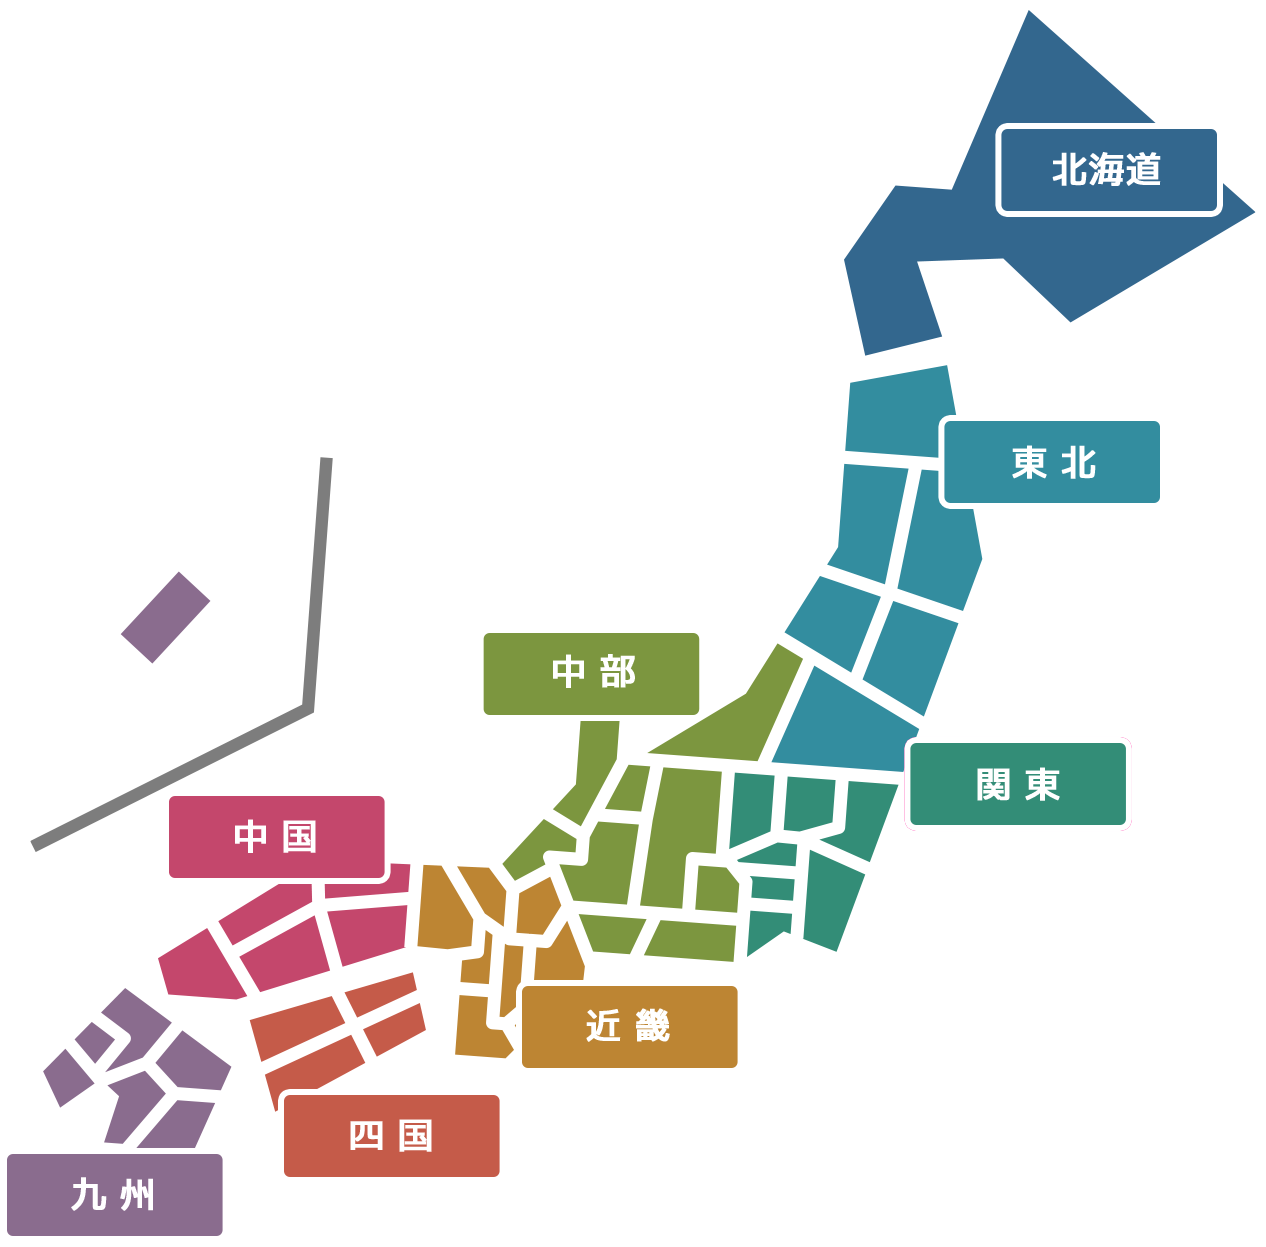
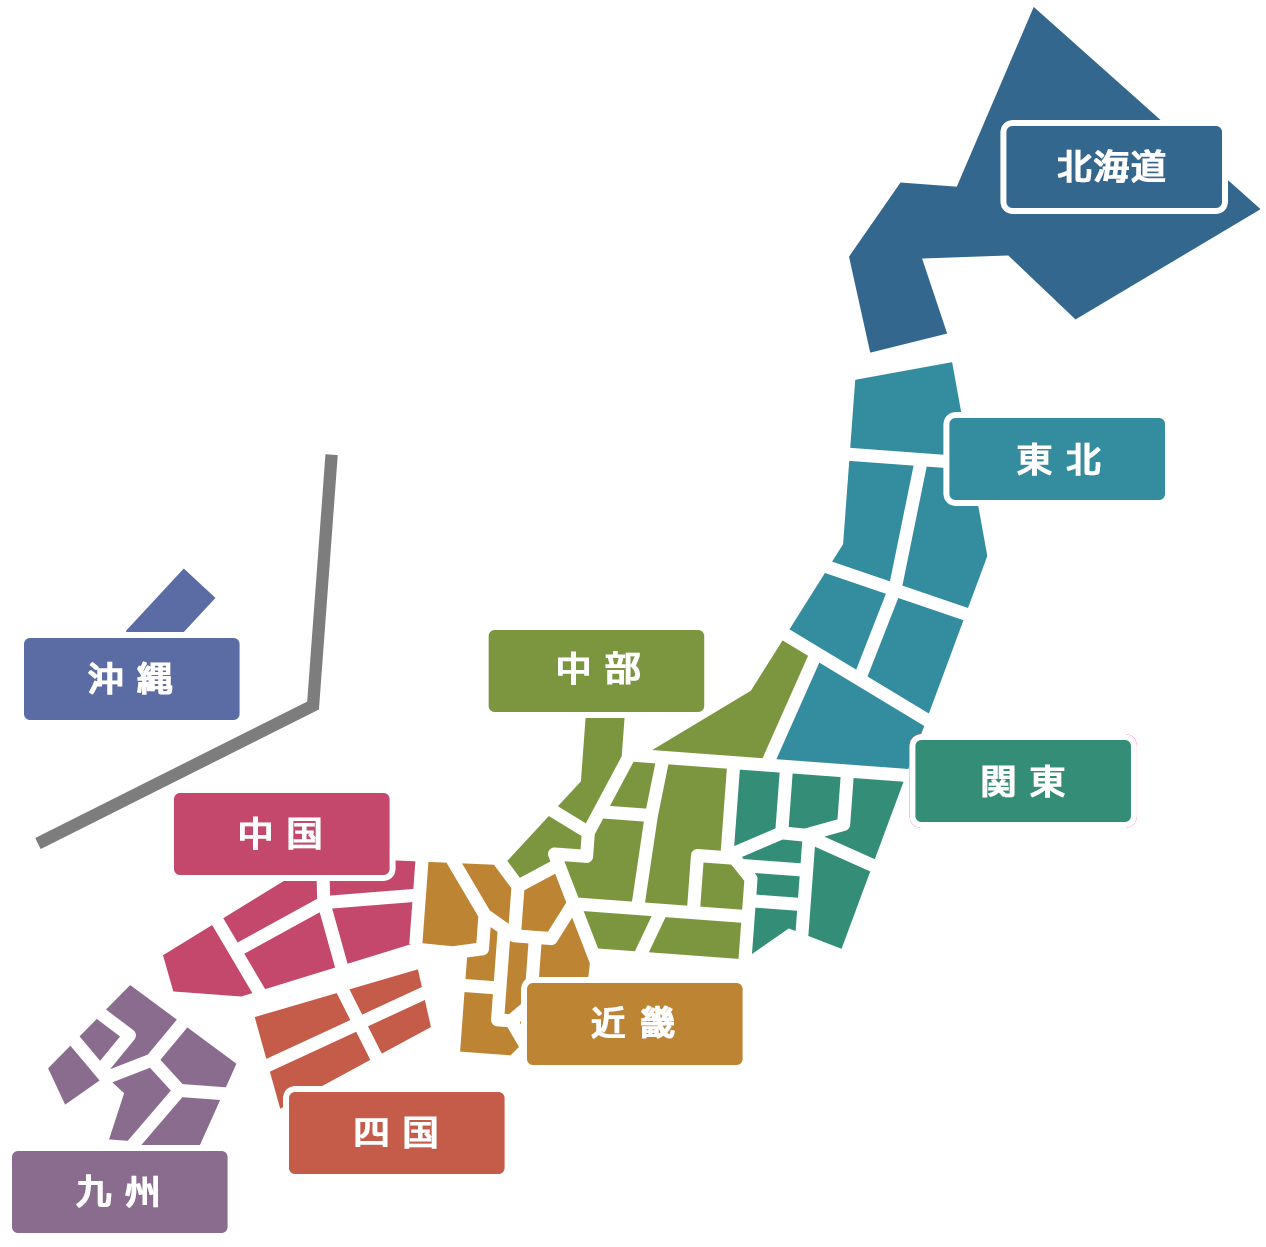
沖縄マップ・リンク変更、追加

diff --git a/index.html b/index.html
@@ -100,7 +100,7 @@
 				
 				<p>1,230<span>件</span></p>
 				
-				<img src="resources/images/map.png" usemap="#image-map">
+				<img src="resources/images/map.png?1.1" usemap="#image-map">
 				
 				<map name="image-map">
 					<area target="" alt="北海道" title="北海道" class="hokkaido" coords="1030,11,1157,123,1217,128,1221,181,1251,208,1071,322,1004,256,917,260,940,327,870,350,845,263,893,185,956,189" shape="poly">
@@ -111,7 +111,7 @@
 					<area target="" alt="中国" title="中国" class="chugoku" coords="173,795,387,790,390,863,410,863,408,950,246,994,170,989,159,957,276,877,168,879" shape="poly">
 					<area target="" alt="四国" title="四国" class="shikoku" coords="253,1019,413,973,429,1032,323,1092,497,1094,501,1178,284,1176,276,1105" shape="poly">
 					<area target="" alt="九州" title="九州" class="kyusyu" coords="44,1066,124,986,230,1064,193,1151,221,1153,221,1233,6,1236,8,1154,99,1151,118,1094,97,1083,63,1105" shape="poly">
-					<area target="" alt="九州" title="九州" class="kyusyu" coords="70,640,148,697,246,612,168,530" shape="poly">
+					<area target="" alt="沖縄" title="沖縄" class="okinawa" coords="182,490,336,456,321,704,29,848,0,803,6,613" shape="poly">
 				</map>
                 
                 <!--
@@ -195,11 +195,17 @@
 						<dd><a href="">大分県</a></dd>
 						<dd><a href="">宮崎県</a></dd>
 						<dd><a href="">鹿児島県</a></dd>
-						<dd><a href="">沖縄県</a></dd>
+					</dl>
+                    
+                    <dl class="okinawa">
+						<dt>沖縄エリア</dt>
+						<dd><a href="">沖縄本島</a></dd>
+						<dd><a href="">離島</a></dd>
 					</dl>
 				</div>
 			</div>
 		</section>
+        
         
         <section id="about" class="cont">
         

diff --git a/venue_list.html b/venue_list.html
@@ -131,7 +131,14 @@
 								<dd><label><input type="checkbox"><span>大分県</span></label></dd>
 								<dd><label><input type="checkbox"><span>宮崎県</span></label></dd>
 								<dd><label><input type="checkbox"><span>鹿児島県</span></label></dd>
-								<dd><label><input type="checkbox"><span>沖縄県</span></label></dd>
+							</dl>
+						</li>
+
+						<li>
+							<dl>
+								<dt>沖縄エリア</dt>
+								<dd><label><input type="checkbox"><span>沖縄本島</span></label></dd>
+								<dd><label><input type="checkbox"><span>離島</span></label></dd>
 							</dl>
 						</li>
 					</ul>
@@ -288,7 +295,7 @@
 				</li>
 				<li>
 					<a href="venue_detail.html">
-						<figure class="hokkaido"><img src="resources/images/venue_list/result_02.jpg" alt="多摩川緑地バーベキュー広場" />
+						<figure class="okinawa"><img src="resources/images/venue_list/result_02.jpg" alt="多摩川緑地バーベキュー広場" />
                         
                         </figure>
 						

diff --git a/resources/css/base.css b/resources/css/base.css
@@ -499,7 +499,8 @@ figure.chubu,
 figure.kinki,
 figure.chugoku,
 figure.shikoku,
-figure.kyusyu{
+figure.kyusyu,
+figure.okinawa{
 	position:relative;
 }
 figure.hokkaido:after,
@@ -509,7 +510,8 @@ figure.chubu:after,
 figure.kinki:after,
 figure.chugoku:after,
 figure.shikoku:after,
-figure.kyusyu:after{
+figure.kyusyu:after,
+figure.okinawa:after{
 	display:block;
 	width:38px;
 	line-height:15px;
@@ -554,6 +556,10 @@ figure.shikoku:after{
 figure.kyusyu:after{
 	content:'九州';
 	background-color:#8a6c8e;
+}
+figure.okinawa:after{
+	content:'沖縄';
+	background-color:#5b6ca4;
 }
 
 
